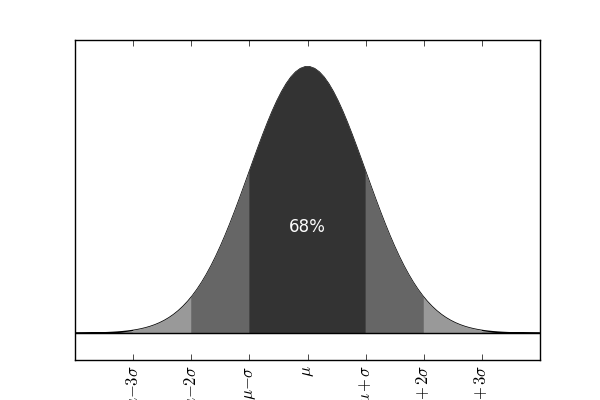
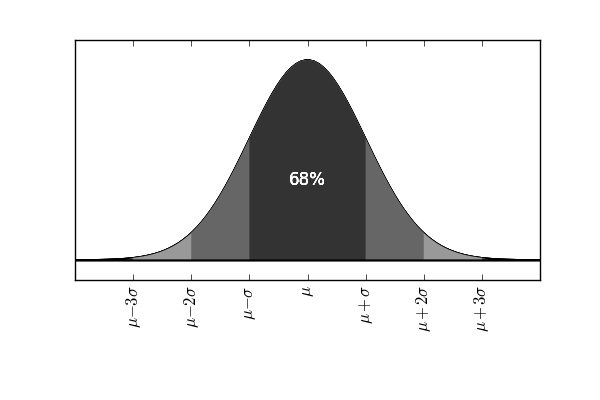
Movi el eje x

diff --git a/gauss_plot.py b/gauss_plot.py
@@ -55,5 +55,7 @@ ax.set_ylim(-0.1, 1.1)
 
 ax.text(0, 0.4, '68%', fontsize=12, color='w', va='center', ha='center')
 
+fig.subplots_adjust(bottom=0.30)
+
 # ax.tick_params(axis='x', which='major', labelsize=10, top='off')
 plt.savefig('gauss.png')
